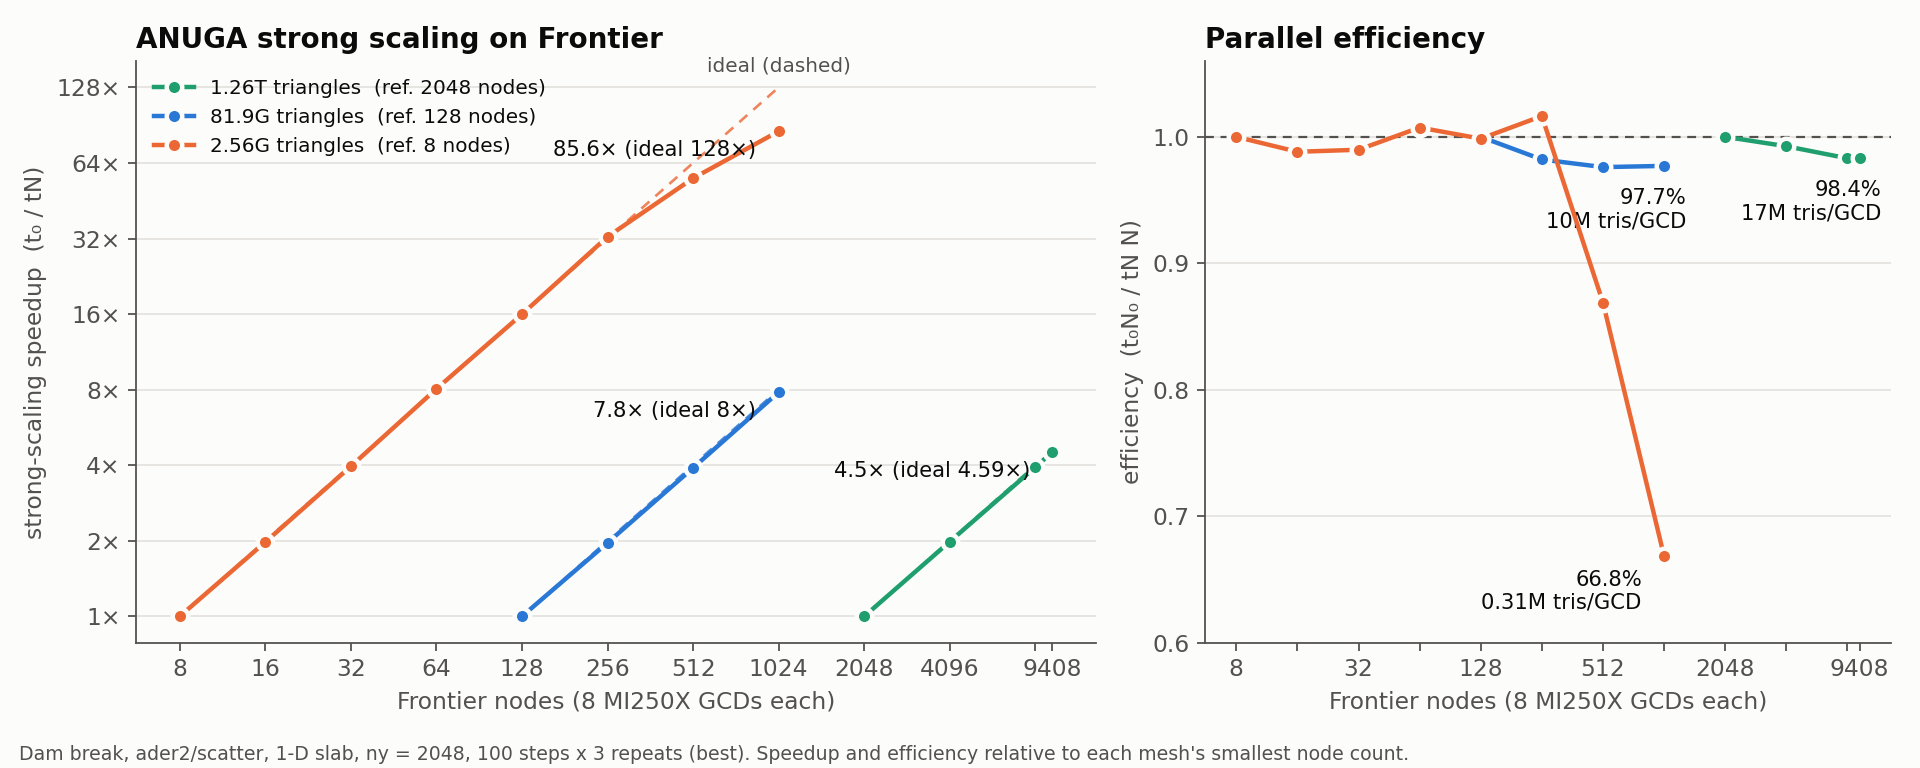
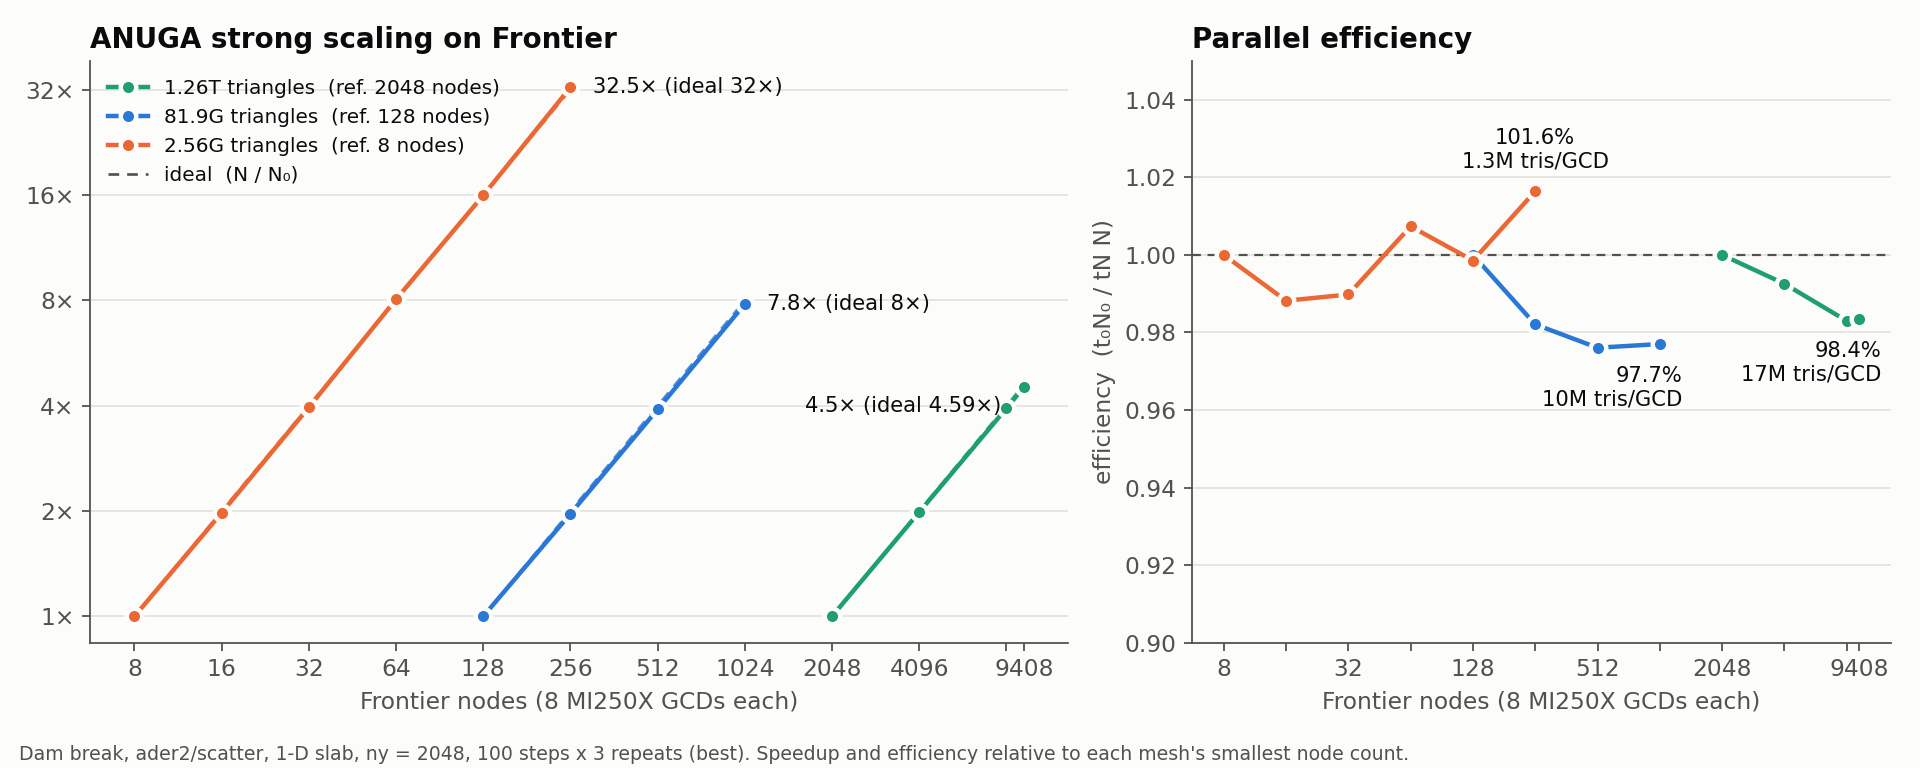
Frontier plots: drop 2.56G mesh past 256 nodes, tidy strong-scaling layout
The 512- and 1024-node points of the 2.56G strong series (0.63M and
0.31M tris/GCD, 86.9% and 66.8%) are left out of the strong and throughput
plots; the paper text covers that fall-off. The strong plot now has the
ideal line in the legend, end-of-series labels placed so they don't
collide, and an efficiency axis of 0.90-1.05.

diff --git a/standalone/logbook/plot_strong_frontier.py b/standalone/logbook/plot_strong_frontier.py
@@ -15,7 +15,10 @@ for f in sorted(glob.glob(R + "/frontier_strong/n*/*/scaling_frontier.csv") +
         if r["study"] == "strong" and r["status"] == "ok":
             series.setdefault(int(r["triangles"]), {}).setdefault(int(r["nodes"]), []).append(
                 float(r["ms_per_step"]))
-mean = {t: {n: sum(v) / len(v) for n, v in d.items()} for t, d in series.items()}
+# Drop the 2.56G mesh past 256 nodes (<1M tris/GCD); the fall-off is discussed in the text.
+DROP = {2560098304: {512, 1024}}
+mean = {t: {n: sum(v) / len(v) for n, v in d.items() if n not in DROP.get(t, ())}
+        for t, d in series.items()}
 order = sorted(mean, reverse=True)            # largest mesh first = series 1
 
 
@@ -62,13 +65,12 @@ for t in order:
     sp = [t0 / mean[t][n] for n in ns]
     a.plot(ns, sp, color=COL[t], lw=2, marker="o", ms=7, mec=SURF, mew=2, zorder=3,
            label="%s  (ref. %d nodes)" % (label(t), n0))
+    right = ns[-1] < allnodes[-1] / 2          # room to the right of the last point?
     a.annotate("%.1f× (ideal %.3g×)" % (sp[-1], ns[-1] / n0), (ns[-1], sp[-1]),
-               xytext=(-10, -4), textcoords="offset points", ha="right", va="top",
+               xytext=(10, 0) if right else (-10, -4), textcoords="offset points",
+               ha="left" if right else "right", va="center" if right else "top",
                color=INK, fontsize=9.5)
-tl = max(order, key=lambda t: max(mean[t]) / min(mean[t]))   # longest ideal line
-a.text(max(mean[tl]), max(mean[tl]) / min(mean[tl]) * 1.12, "ideal (dashed)", color=INK2,
-       ha="center", va="bottom", fontsize=9)
-a.set_ylabel("strong-scaling speedup  (t₀ / tN)")
+a.plot([], [], color=INK2, lw=1.2, ls=(0, (4, 3)), label="ideal  (N / N₀)")
 a.legend(frameon=False, loc="upper left", fontsize=9, labelcolor=INK)
 a.set_title("ANUGA strong scaling on Frontier", loc="left", color=INK,
             fontsize=12.5, fontweight="bold")
@@ -80,9 +82,10 @@ for t in order:
     eff = [t0 * n0 / (mean[t][n] * n) for n in ns]
     b.plot(ns, eff, color=COL[t], lw=2, marker="o", ms=7, mec=SURF, mew=2, zorder=3)
     b.annotate("%.1f%%\n%.2gM tris/GCD" % (100 * eff[-1], t / (8 * ns[-1]) / 1e6), (ns[-1], eff[-1]),
-               xytext=(-10, -6) if t == order[-1] else (10, -10), textcoords="offset points",
-               ha="right", va="top", color=INK, fontsize=9.5)
-b.set_ylim(0.6, 1.06); b.set_ylabel("efficiency  (t₀N₀ / tN N)")
+               xytext=(0, 9) if t == order[-1] else (10, -10), textcoords="offset points",
+               ha="center" if t == order[-1] else "right", va="bottom" if t == order[-1] else "top",
+               color=INK, fontsize=9.5)
+b.set_ylim(0.9, 1.05); b.set_ylabel("efficiency  (t₀N₀ / tN N)")
 b.set_title("Parallel efficiency", loc="left", color=INK, fontsize=12.5, fontweight="bold")
 
 fig.text(0.01, 0.01, "Dam break, ader2/scatter, 1-D slab, ny = 2048, 100 steps x 3 repeats (best). "

diff --git a/standalone/logbook/plot_throughput_frontier.py b/standalone/logbook/plot_throughput_frontier.py
@@ -18,7 +18,10 @@ for f in sorted(files):
         key = ("weak", int(r["tris_per_rank"])) if r["study"] == "weak" else ("strong", int(r["triangles"]))
         series.setdefault(key, {}).setdefault(int(r["nodes"]), []).append(
             float(r["mcellsteps_per_s"]) * 1e6)
-best = {k: {n: max(v) for n, v in d.items()} for k, d in series.items()}
+# Drop the 2.56G mesh past 256 nodes (<1M tris/GCD); the fall-off is discussed in the text.
+DROP = {("strong", 2560098304): {512, 1024}}
+best = {k: {n: max(v) for n, v in d.items() if n not in DROP.get(k, ())}
+        for k, d in series.items()}
 
 
 def thin(ticks, r):

diff --git a/standalone/logbook/LOGBOOK.md b/standalone/logbook/LOGBOOK.md
@@ -185,7 +185,9 @@ The dt allreduce grows to 16.2 ms and halo to 1.5 ms, while kernels stay at 114.
   `frontier_full/`. The new `plot_throughput_frontier.py out.png` draws every weak and strong
   run as aggregate triangle-steps/s against the 1-node-weak × N ideal.
   Renders: `logbook/{strong,weak,throughput}_frontier.png`. Node-count tick labels are thinned
-  so 8192 and 9408 don't collide.
+  so 8192 and 9408 don't collide. The strong and throughput plots leave out the
+  2.56G mesh at 512 and 1024 nodes (0.63M and 0.31M tris/GCD; 86.9% and 66.8%), so that
+  fall-off has to be covered in the paper text (`DROP` in each script).
 
 ### Caveats for the paper
 
